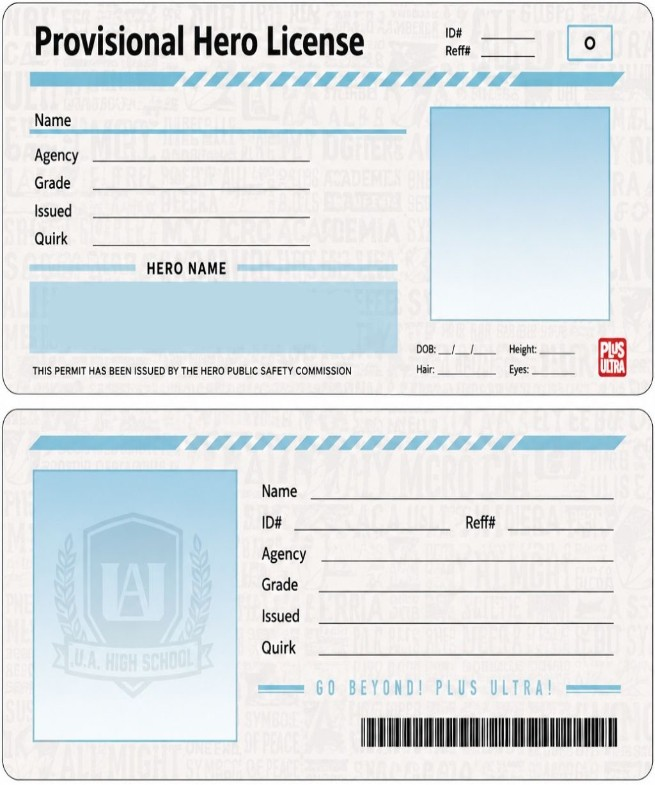
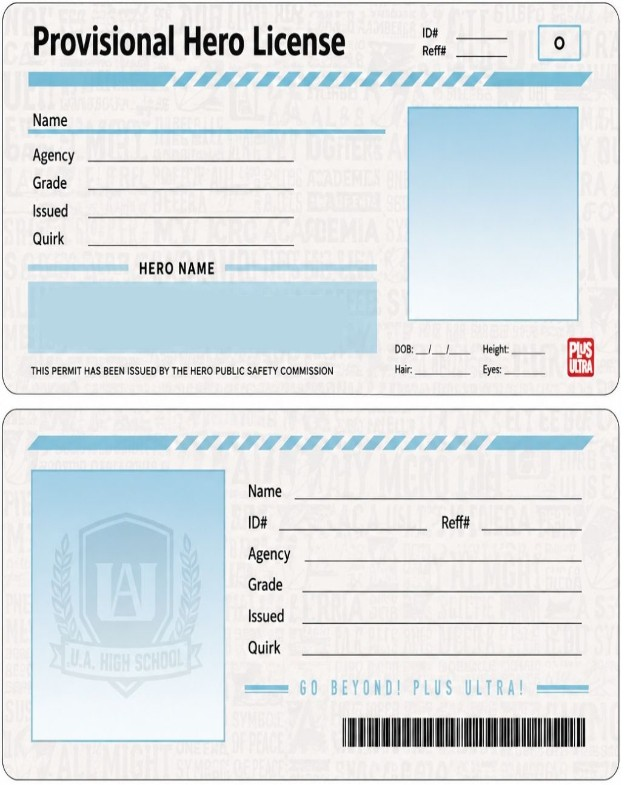
update card assets and backgrounds

diff --git a/app.js b/app.js
@@ -33,18 +33,18 @@ document.addEventListener('DOMContentLoaded', () => {
             pageThemeClass: 'page-theme-pokemon',
             fontFamily: "'Press Start 2P', monospace",
             textColor: '#1c2833',
-            photoBox: { top: '59.2%', left: '5.0%', width: '38.5%', height: '33.5%' },
+            photoBox: { top: '60.8%', left: '5.8%', width: '33.5%', height: '30.5%' },
             fields: [
-                { id: 'poke_id_front', label: 'ID No.', top: '5.5%', left: '59.0%', width: '27%', defaultText: '007849', fontSize: '0.85rem' },
-                { id: 'poke_name_front', label: 'Name', top: '15.0%', left: '16.5%', width: '36%', defaultText: 'ASH KETCHUM', fontSize: '0.8rem' },
-                { id: 'poke_money_front', label: 'Money', top: '20.8%', left: '21.5%', width: '28%', defaultText: '$999,999', fontSize: '0.75rem' },
+                { id: 'poke_id_front', label: 'ID No.', top: '5.5%', left: '58.0%', width: '27%', defaultText: '007849', fontSize: '0.85rem' },
+                { id: 'poke_name_front', label: 'Name', top: '14.5%', left: '16.4%', width: '36%', defaultText: 'enter name', fontSize: '0.8rem' },
+                { id: 'poke_money_front', label: 'Money', top: '20.8%', left: '21.5%', width: '28%', defaultText: '999', fontSize: '0.75rem' },
                 { id: 'poke_dex_front', label: 'Pokédex', top: '26.5%', left: '21.5%', width: '28%', defaultText: '151 / 151', fontSize: '0.75rem' },
-                { id: 'poke_time_front', label: 'Play Time', top: '32.2%', left: '21.5%', width: '28%', defaultText: '250:45', fontSize: '0.75rem' },
-                { id: 'poke_name_back', label: 'Name', top: '60.8%', left: '53.0%', width: '38%', defaultText: 'ASH KETCHUM', fontSize: '0.8rem' },
-                { id: 'poke_id_back', label: 'ID No.', top: '64.6%', left: '53.0%', width: '38%', defaultText: '007849', fontSize: '0.8rem' },
-                { id: 'poke_money_back', label: 'Money', top: '68.4%', left: '53.0%', width: '38%', defaultText: '$999,999', fontSize: '0.75rem' },
-                { id: 'poke_dex_back', label: 'Pokédex', top: '72.2%', left: '53.0%', width: '38%', defaultText: '151 / 151', fontSize: '0.75rem' },
-                { id: 'poke_time_back', label: 'Play Time', top: '76.0%', left: '53.0%', width: '38%', defaultText: '250:45', fontSize: '0.75rem' },
+                { id: 'poke_time_front', label: 'Play Time', top: '32.2%', left: '24%', width: '28%', defaultText: '250:45', fontSize: '0.75rem' },
+                { id: 'poke_name_back', label: 'Name', top: '59.5%', left: '55.0%', width: '38%', defaultText: 'enter name', fontSize: '0.8rem' },
+                { id: 'poke_id_back', label: 'ID No.', top: '63.4%', left: '55.2%', width: '38%', defaultText: '007849', fontSize: '0.8rem' },
+                { id: 'poke_money_back', label: 'Money', top: '67.0%', left: '55.3%', width: '38%', defaultText: '$999,999', fontSize: '0.75rem' },
+                { id: 'poke_dex_back', label: 'Pokédex', top: '70.2%', left: '57.9%', width: '38%', defaultText: '151 / 151', fontSize: '0.75rem' },
+                { id: 'poke_time_back', label: 'Play Time', top: '74.0%', left: '60.5%', width: '38%', defaultText: '250:45', fontSize: '0.75rem' },
                 { id: 'poke_notes_back', label: 'Notes', top: '84.5%', left: '48.0%', width: '43%', defaultText: 'PALLET TOWN CHAMPION', font: "'Courier Prime', monospace", fontSize: '0.85rem' }
             ]
         },

diff --git a/styles.css b/styles.css
@@ -43,8 +43,8 @@ body.page-theme-pokemon {
 }
 body.page-theme-pokemon #background {
     background-color: #0a1c38;
-    background-image: radial-gradient(#3c5aa6 2px, transparent 2px);
-    background-size: 24px 24px;
+    background-image: url('assets/pokemon_bg.png');
+    background-size: cover;
 }
 body.page-theme-pokemon .brand-title {
     background: linear-gradient(135deg, #ffcb05, #3c5aa6, #ff4757);
@@ -65,8 +65,8 @@ body.page-theme-hero {
 }
 body.page-theme-hero #background {
     background-color: #0d1726;
-    background-image: radial-gradient(#203354 2.5px, transparent 2.5px);
-    background-size: 20px 20px;
+    background-image: url('assets/mha_bg.png');
+    background-size: cover;
 }
 body.page-theme-hero .brand-title {
     background: linear-gradient(135deg, #FFD700, #E3001B, #007F67);
@@ -87,8 +87,8 @@ body.page-theme-fight_club {
 }
 body.page-theme-fight_club #background {
     background-color: #0d0d0d;
-    background-image: radial-gradient(#262626 1.5px, transparent 1.5px);
-    background-size: 16px 16px;
+    background-image: url('assets/fightclub_bg.png');
+    background-size: cover;
 }
 body.page-theme-fight_club .brand-title {
     background: linear-gradient(135deg, #ff69b4, #b91c1c, #84cc16);
@@ -109,8 +109,8 @@ body.page-theme-mib {
 }
 body.page-theme-mib #background {
     background-color: #000000;
-    background-image: radial-gradient(#1f2937 1px, transparent 1px);
-    background-size: 22px 22px;
+    background-image: url('assets/mib_bg.png');
+    background-size: cover;
 }
 body.page-theme-mib .brand-title {
     background: linear-gradient(135deg, #ffffff, #00f2fe, #9ca3af);

diff --git a/index.html b/index.html
@@ -79,7 +79,7 @@
             <!-- Interactive Editing Toolbar -->
             <div class="card-toolbar">
                 <button type="button" id="addCustomTextBtn" class="tool-btn">
-                    ➕ Add Text
+                    + Add Text
                 </button>
                 <button type="button" id="changePhotoToolBtn" class="tool-btn">
                     📷 Upload Photo
